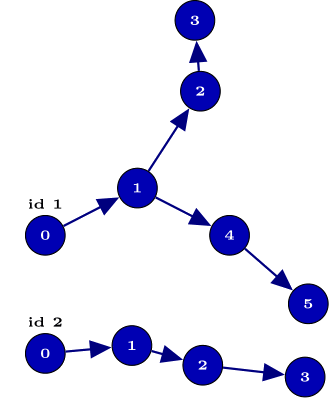
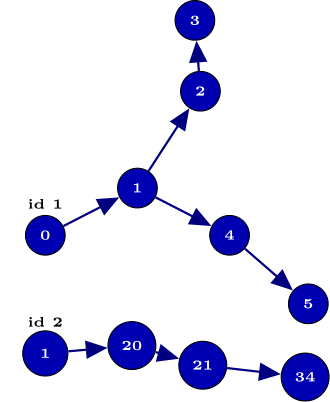
Fixed errors in example source code

diff --git a/pages/devel.md b/pages/devel.md
@@ -84,7 +84,7 @@ your own class (through `this.resultLineMap`). It is of type `Map<Integer, Map<I
   * Additionally there are two more parameters `nx` and `ny` of type `double`
 			which are only used internally and can safely be ignored.<br><br>
   * There are three different constructors available for the class `Node`:<br><br>
-		  	- `Node(double x, double y)`, with predecessor = 0 and diameter = 0.0 <br>
+		  	- `Node(double x, double y)`, with predecessor = -1 and diameter = 0.0 <br>
 		 	- `Node(int predecessor, double x, double y)`, with diameter = 0.0<br>
 		 	- `Node(int predecessor, double x, double y, double diameter)`
 		 	
@@ -95,24 +95,24 @@ this.resultLineMap = new HashMap<Integer, Map<Integer, Node>>();
 
 //line id 1
 Map<Integer, Node> lineMap = new HashMap<Integer, Node>();
-lineMap.put(new Integer(-1), new Node(0.00, 2.80, 1.0));
-lineMap.put(new Integer(0), new Node(1.17, 3.40, 1.0));
-lineMap.put(new Integer(1), new Node(1.97, 4.63, 1.0));
-lineMap.put(new Integer(2), new Node(1.90, 5.53, 1.0));
-lineMap.put(new Integer(1), new Node(2.34, 2.80, 1.0));
-lineMap.put(new Integer(4), new Node(3.34, 2.0, 1.0));
+lineMap.put(new Integer(0), new Node(-1, 0.00, 2.80, 1.0));
+lineMap.put(new Integer(1), new Node(0, 1.17, 3.40, 1.0));
+lineMap.put(new Integer(2), new Node(1, 1.97, 4.63, 1.0));
+lineMap.put(new Integer(3), new Node(2, 1.90, 5.53, 1.0));
+lineMap.put(new Integer(4), new Node(1, 2.34, 2.80, 1.0));
+lineMap.put(new Integer(5), new Node(4, 3.34, 2.0, 1.0));
 this.resultLineMap.put(new Integer(1), lineMap);
 
 //line id 2
 lineMap = new HashMap<Integer, Node>();
-lineMap.put(new Integer(-1), new Node(0.00, 0.30, 1.0));
-lineMap.put(new Integer(0), new Node(1.10, 0.40, 1.0));
-lineMap.put(new Integer(1), new Node(2.20, 0.15, 1.0));
-lineMap.put(new Integer(2), new Node(3.30, 0.00, 1.0));
+lineMap.put(new Integer(1), new Node(-1, 0.00, 0.30, 1.0));
+lineMap.put(new Integer(20), new Node(1, 1.10, 0.40, 1.0));
+lineMap.put(new Integer(21), new Node(20, 2.20, 0.15, 1.0));
+lineMap.put(new Integer(34), new Node(21, 3.30, 0.00, 1.0));
 this.resultLineMap.put(new Integer(2), lineMap);
 ~~~~
-<br><br><br>
-
+Note that the node IDs not necessarily have to be consecutively numbered. Nevertheless, it is best practice to choose IDs which are greater than or equal to zero and assigning to the current node a larger number than to its predecessor.   
+<br>
 
 ## Template project for developing operators <a name="project"></a>
 
